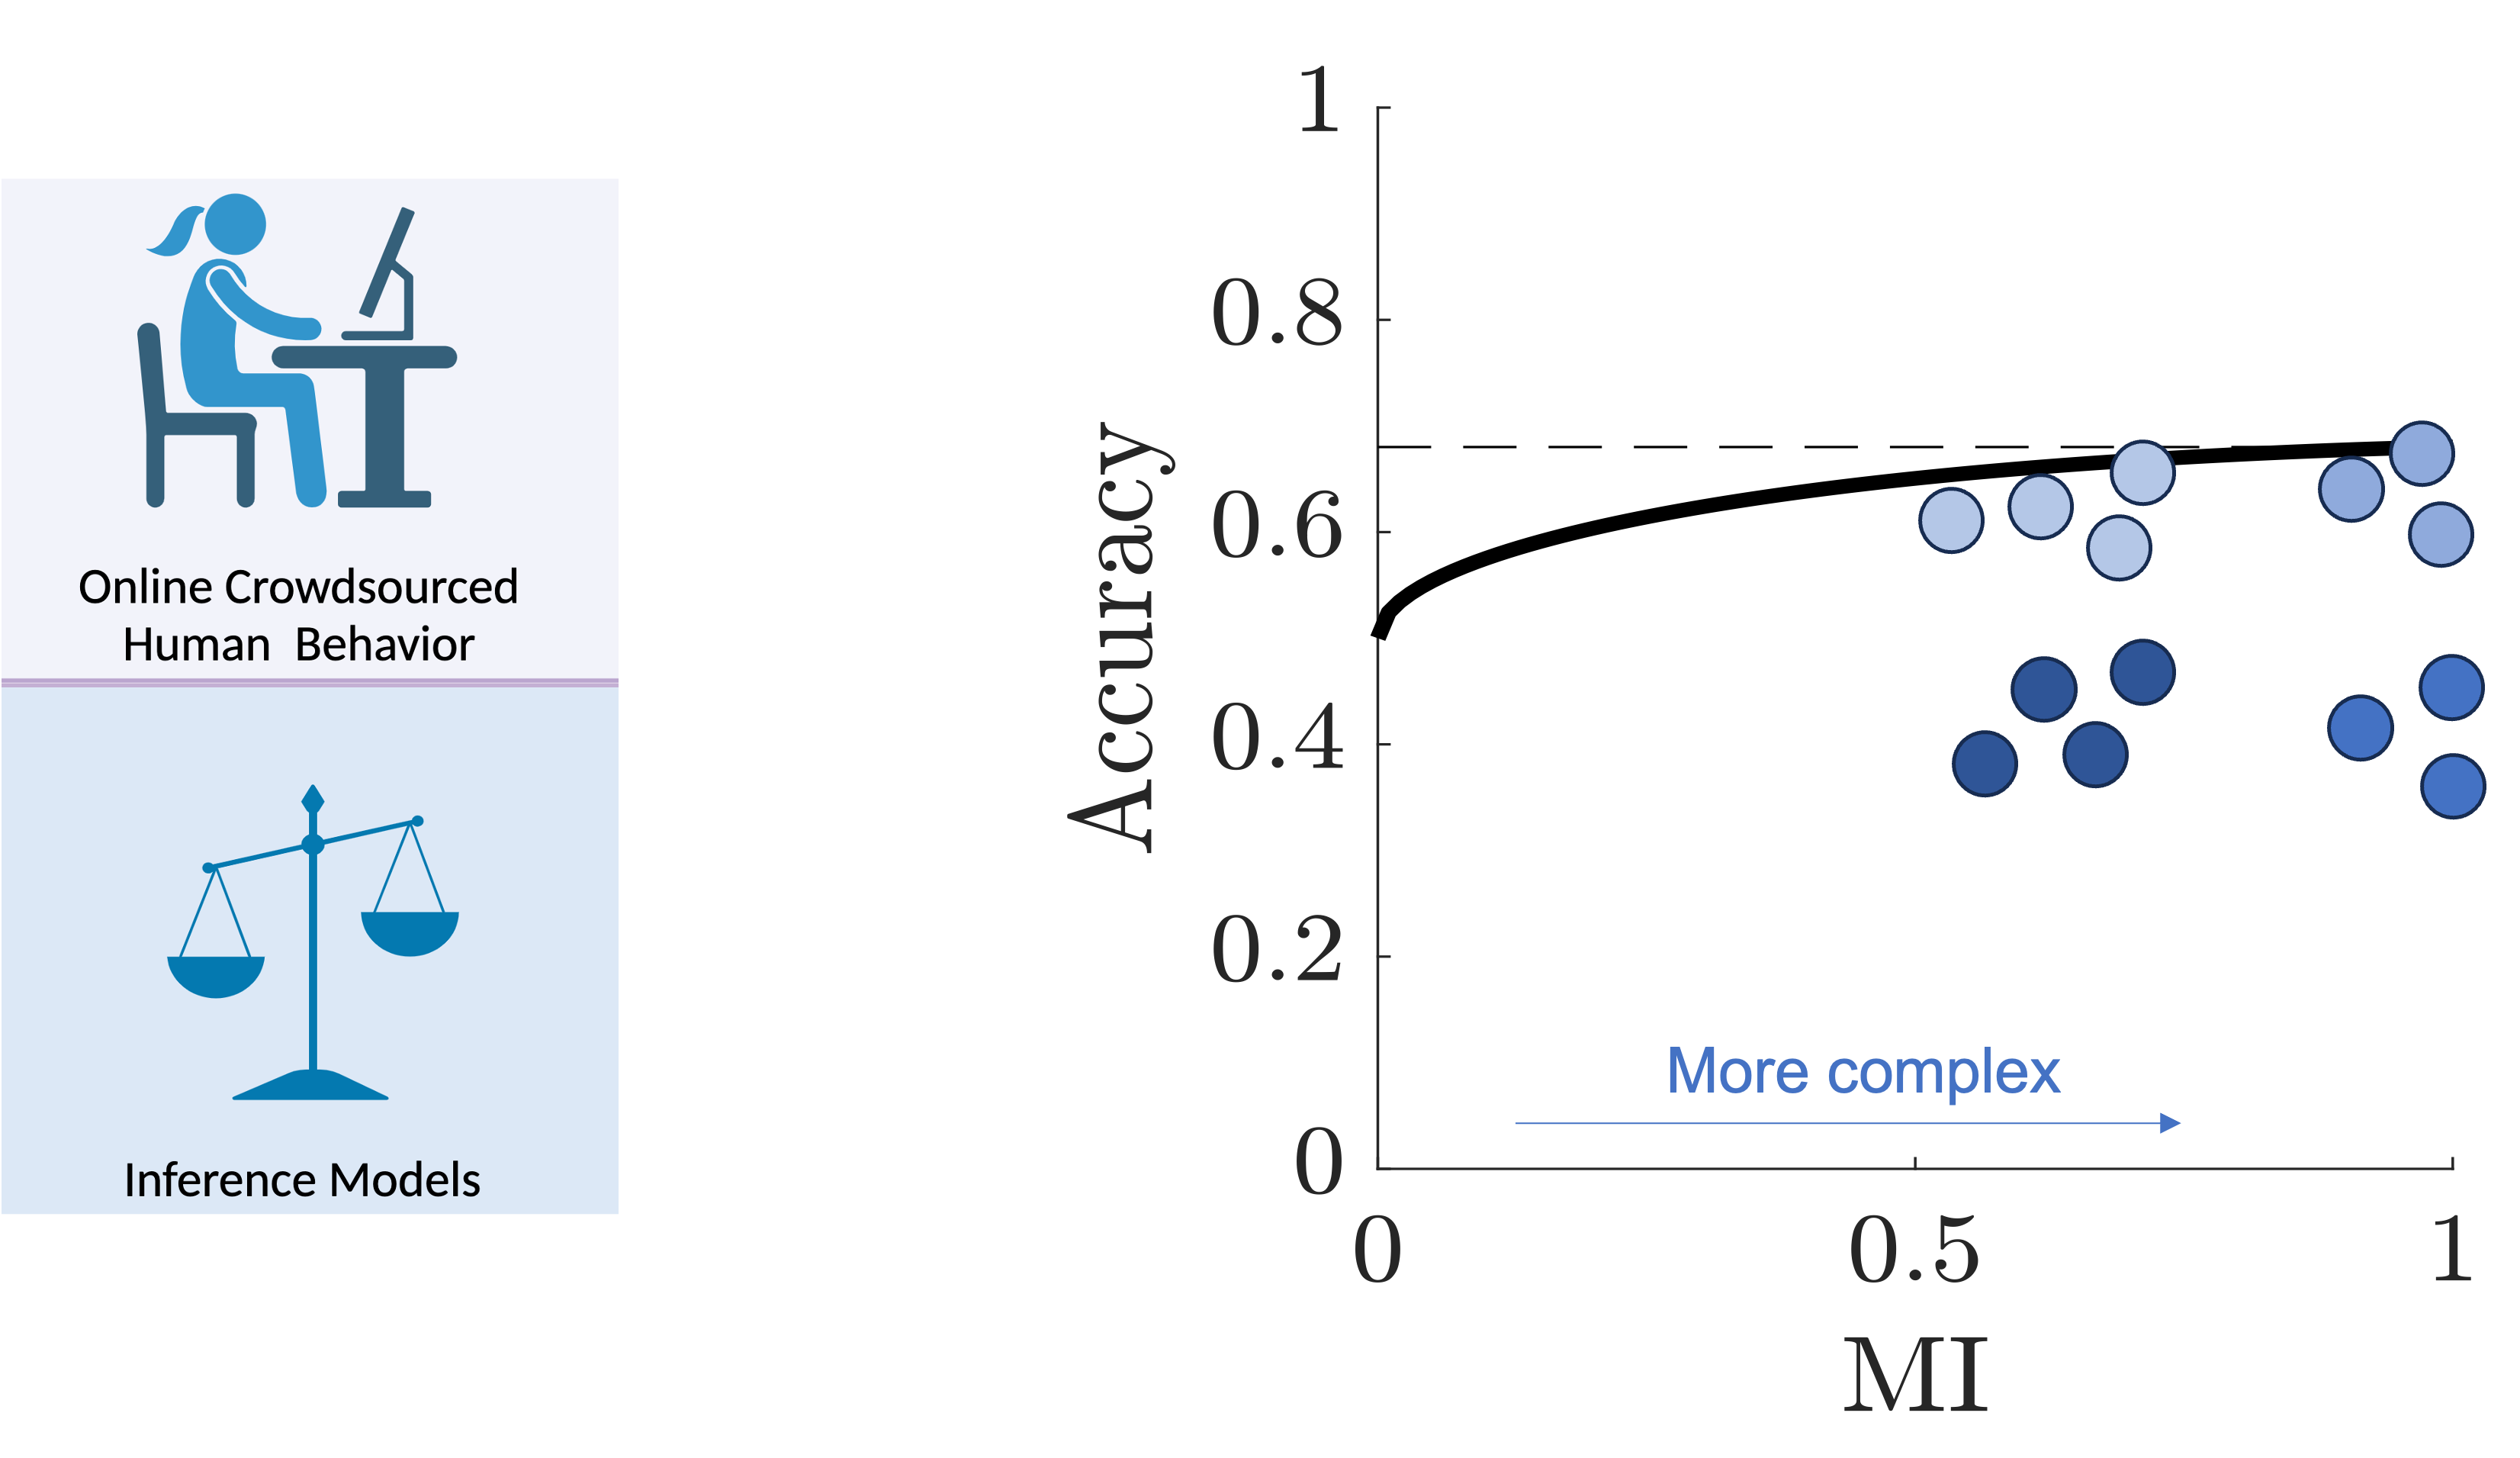
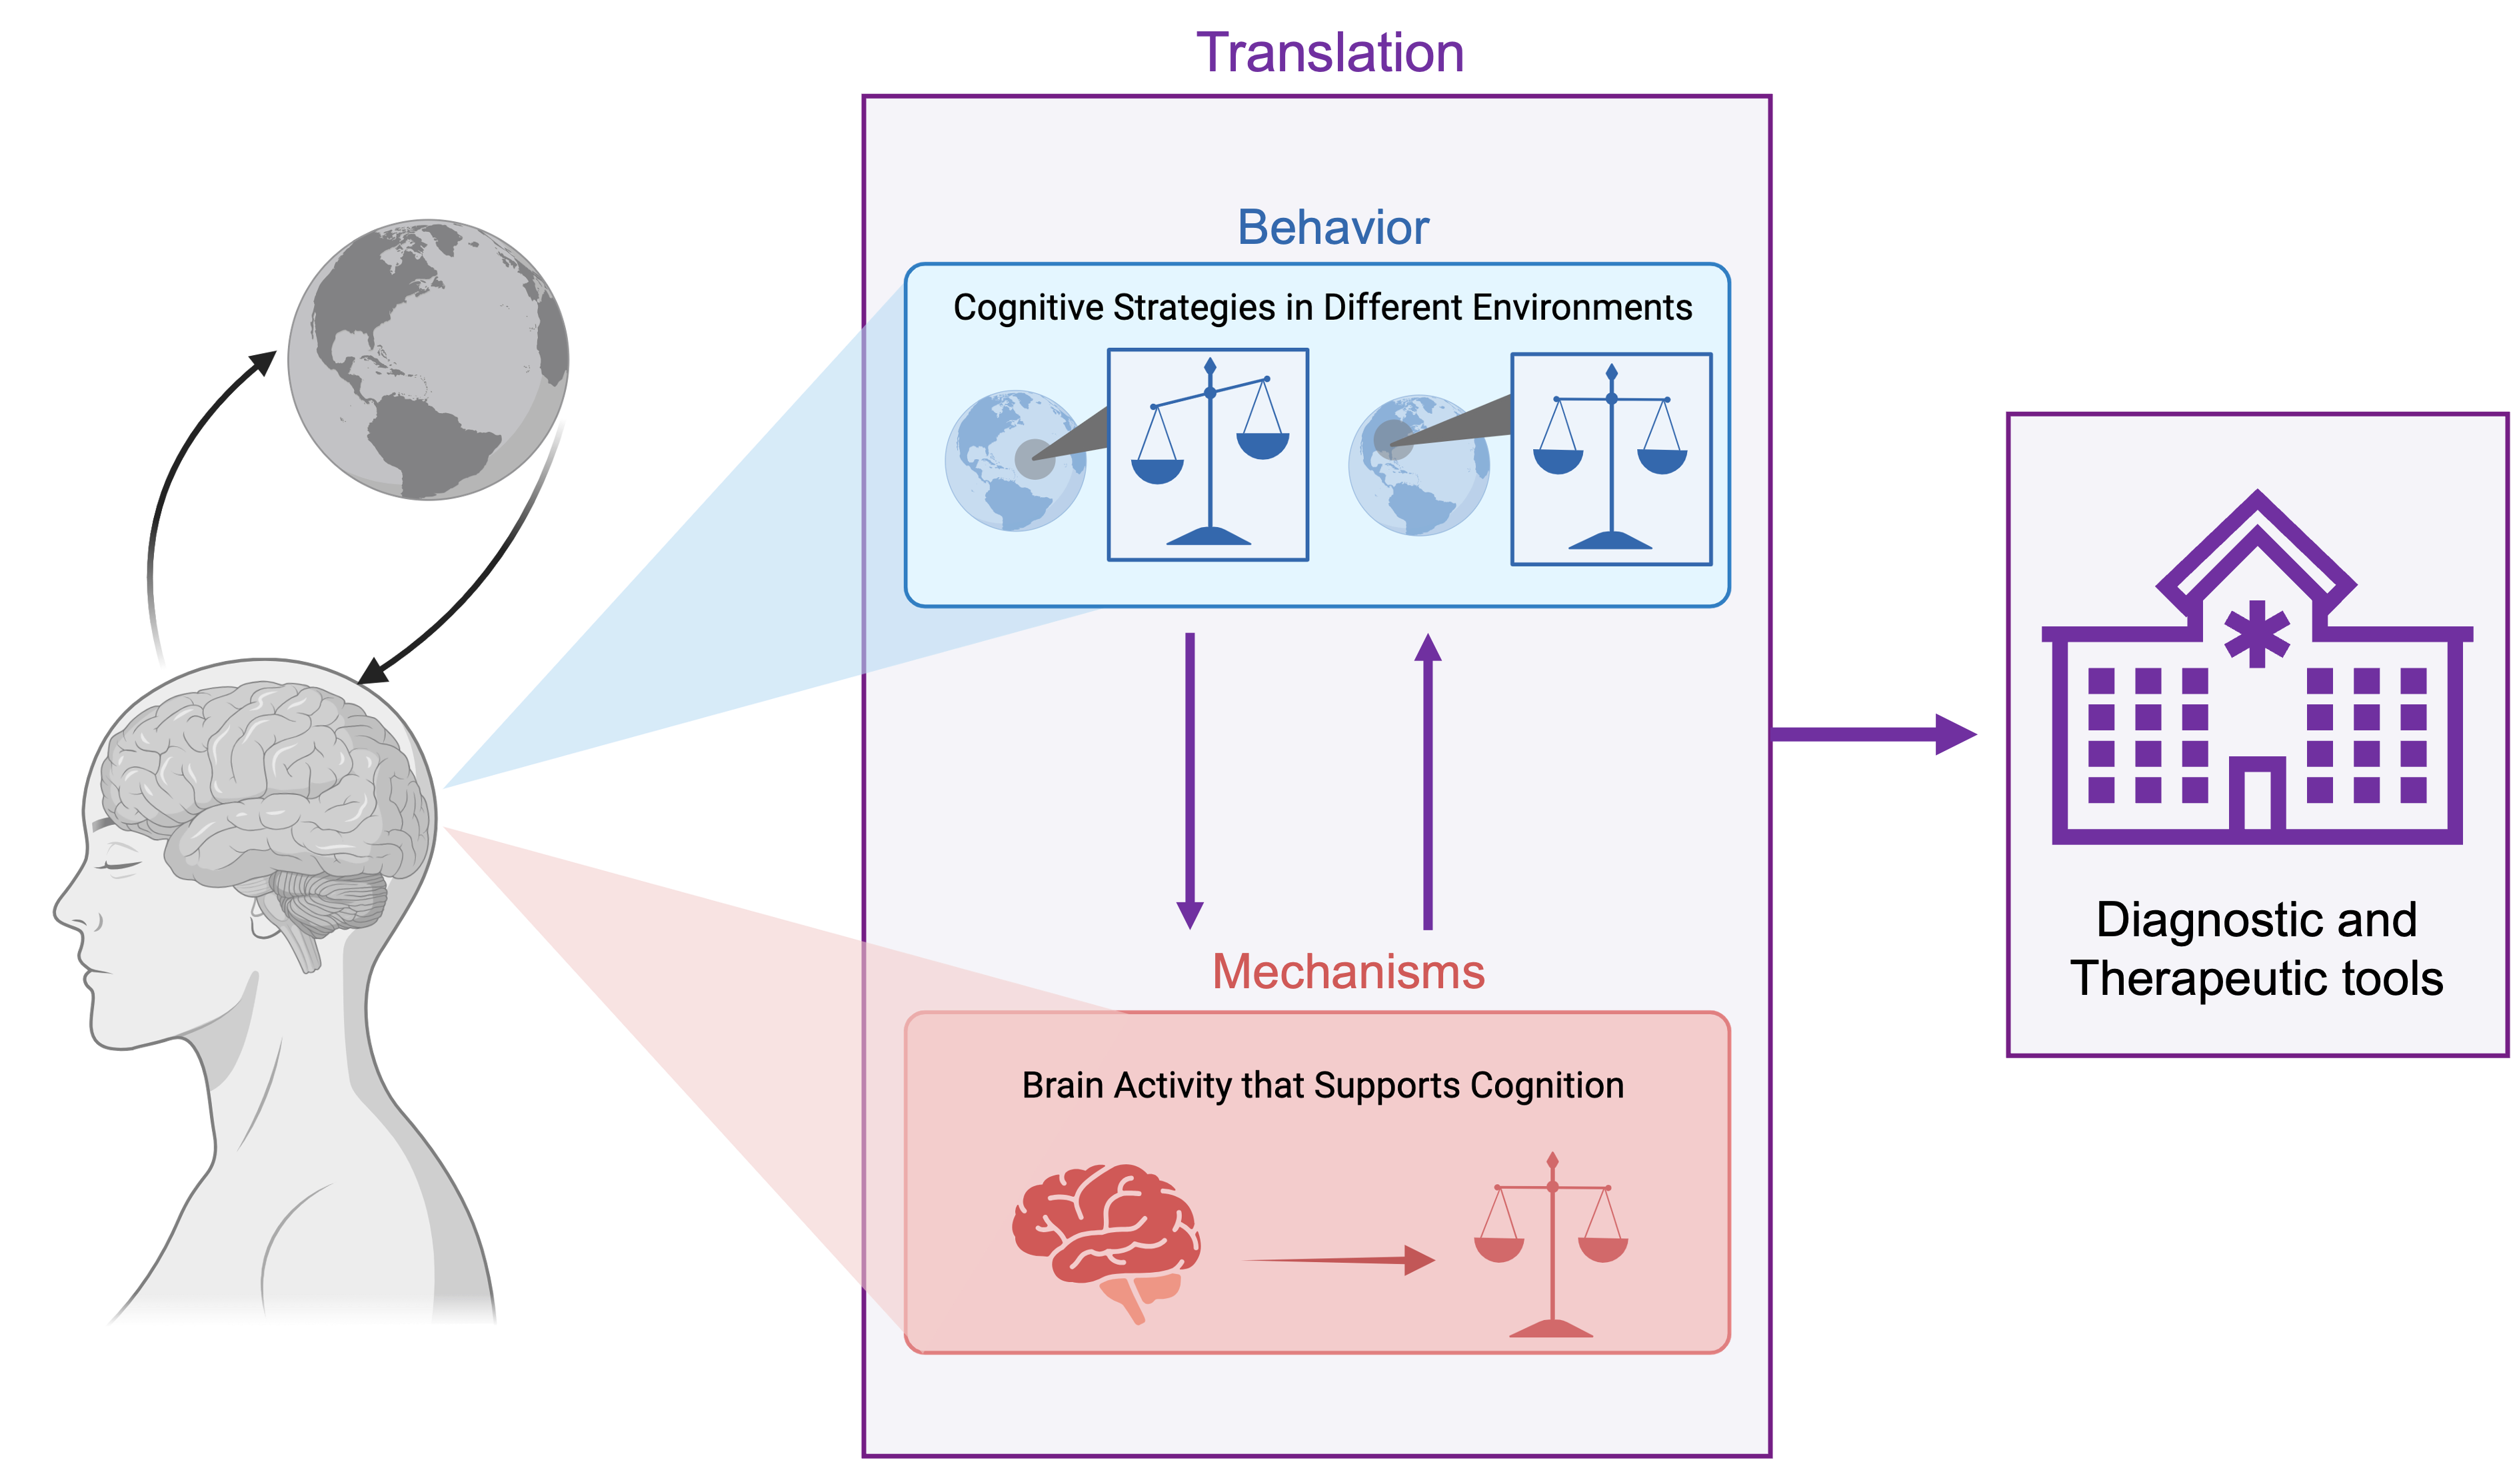
update research

diff --git a/_research/adaptive-decision-making.md b/_research/adaptive-decision-making.md
@@ -16,4 +16,4 @@ pills:
 
 To study this, we build decision-making games with “hidden” features that change how a participant should behave. We then use mathematical modeling to determine what strategies humans use to change their decision-making in different environments.
 
-Crowdsourced, online video games let us observe many people behaving in complex, dynamic worlds, surfacing the diversity of cognitive strategies that a single laboratory task would miss.
+Crowdsourced, online video games let us observe many people behaving in complex, dynamic worlds, surfacing the diversity of cognitive strategies that a single laboratory task would miss. Coupling this work with Bayesian inference and alternative behavioral strategies allows us to simulate robust game structures and quantify human behavior.

diff --git a/_research/neural-mechanisms.md b/_research/neural-mechanisms.md
@@ -16,4 +16,4 @@ pills:
 
 We combine human neural activity recordings with neural network modeling to understand how the brain implements flexible decision-making strategies.
 
-By pairing intracranial recordings of neural populations with models that learn the same tasks our participants play, we can ask which candidate mechanisms are biologically plausible and how they are distributed across brain regions.
+By pairing intracranial recordings of neural populations in epilepsy patient who participate in our tasks with models that learn the same tasks, we can ask how the brain computes different cognitive strategies, constrain candidate mechanisms to those that are biologically plausible, and determine how they are distributed across brain regions.